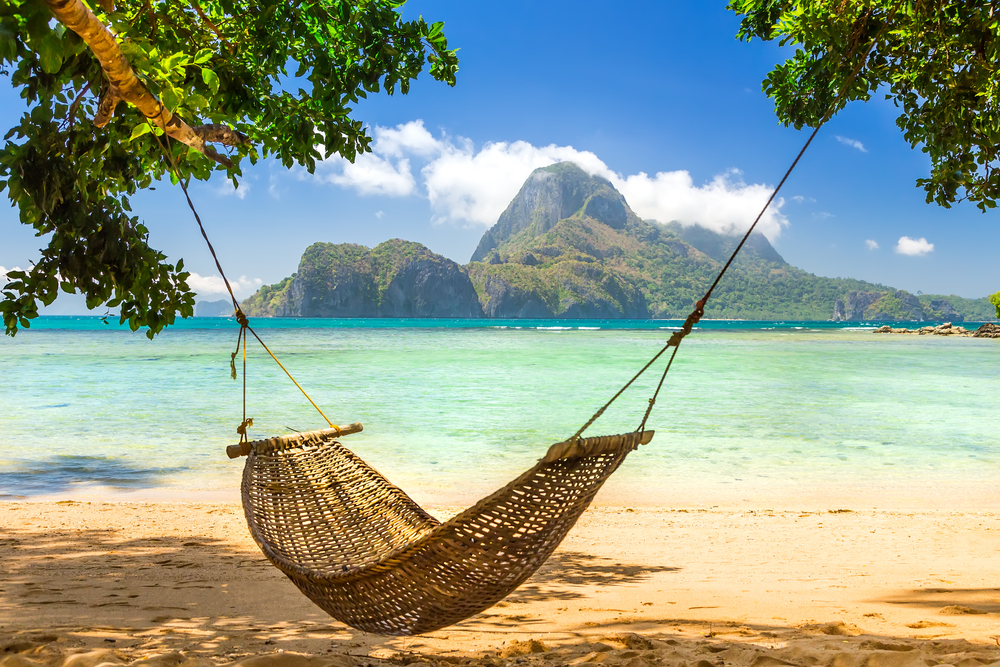
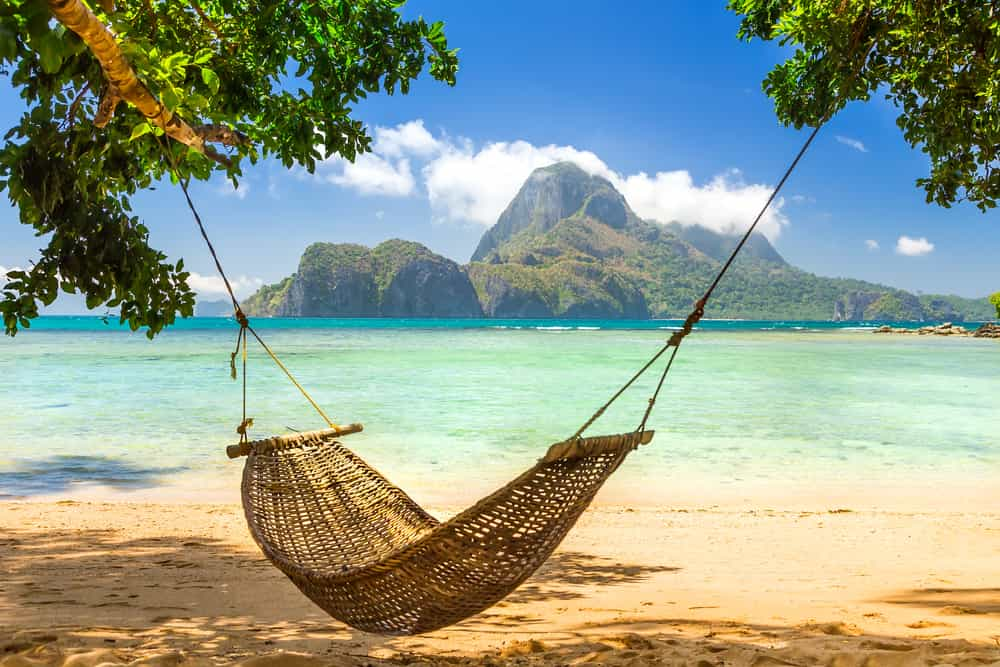
Images size reduced

diff --git a/src/views/page/caurosel.jsx b/src/views/page/caurosel.jsx
@@ -1,7 +1,7 @@
 import React, { Component } from 'react';
 
-// import Main from '/src/images/main.jpg';
-import Attraction1 from '../../images/attractions/attraction10.jpg';
+import Main from '../../images/main.jpg';
+import Attraction1 from '../../images/attractions/attraction2.jpg';
 import Attraction2 from '../../images/attractions/attraction13.jpg';
 import Attraction3 from '../../images/attractions/attraction14.jpg';
 var Carousel = require('react-responsive-carousel').Carousel;
@@ -13,7 +13,7 @@ class BaliCarousel extends Component {
   render() {
     return <Carousel showStatus ={false} showThumbs={false} autoPlay={true} infiniteLoop={true} stopOnHover={false}>
         <div>
-            <img src={require('../../images/main.jpg')} />
+            <img src={Main} />
         </div>
         <div>
             <img src={Attraction1} />

diff --git a/src/sass/app.scss b/src/sass/app.scss
@@ -386,13 +386,15 @@
 }
 
 .language-dropdown {
-    width: 100px;
-    right: 30px;
-    float: right;
-    position: absolute;
-    top: 46px;
-    cursor: pointer;
-    background-color: rgba(1, 1, 1, 0.6);
+
+  width: 100px;
+  right: 30px;
+  float: right;
+  position: absolute;
+  top: 58px;
+  cursor: pointer;
+  background-color: rgba(1, 1, 1, 0.6);
+  border-radius: 4px;
 }
 
 .language-display-div{

diff --git a/src/sass/footer.scss b/src/sass/footer.scss
@@ -17,7 +17,7 @@
     float:left;
     font-size:13px;
 }
-  
+
 .ml50{
     margin-left:50px;
 }
@@ -69,10 +69,11 @@
     display: block;
     clear: both;
     border-top:1px solid #fff;
-    // background:rgb(91, 99, 102);
-    background:#000;
+
+    background: #414b4f;
+    color: #fff;
     height:50px;
-    padding:15px 280px 15px 100px
+    padding:15px 80px;
 }
 
 

diff --git a/src/sass/language.css b/src/sass/language.css
@@ -27,7 +27,12 @@
   margin-right: 0px !important; }
 
 .arabic .formContainer form {
-  align-items: flex-end; }
+  align-items: flex-end;
+  flex-direction: column; }
+
+.arabic .formContainer fieldset {
+  display: flex;
+  flex-direction: column; }
 
 .arabic .reverse {
   transform: rotate(90deg); }

diff --git a/src/sass/app.css b/src/sass/app.css
@@ -273,9 +273,10 @@
   right: 30px;
   float: right;
   position: absolute;
-  top: 46px;
+  top: 58px;
   cursor: pointer;
-  background-color: rgba(1, 1, 1, 0.6); }
+  background-color: rgba(1, 1, 1, 0.6);
+  border-radius: 4px; }
 
 .language-display-div {
   margin-left: 10px;

diff --git a/src/sass/footer.css b/src/sass/footer.css
@@ -56,9 +56,10 @@
   display: block;
   clear: both;
   border-top: 1px solid #fff;
-  background: #000;
+  background: #414b4f;
+  color: #fff;
   height: 50px;
-  padding: 15px 280px 15px 100px; }
+  padding: 15px 80px; }
 
 .footer-copyright-div .footer_icons {
   width: 50%;

diff --git a/src/sass/language.scss b/src/sass/language.scss
@@ -35,6 +35,11 @@
   }
   .formContainer form{
     align-items: flex-end;
+    flex-direction: column;
+  }
+  .formContainer fieldset{
+    display: flex;
+    flex-direction: column;
   }
   .reverse
   {
